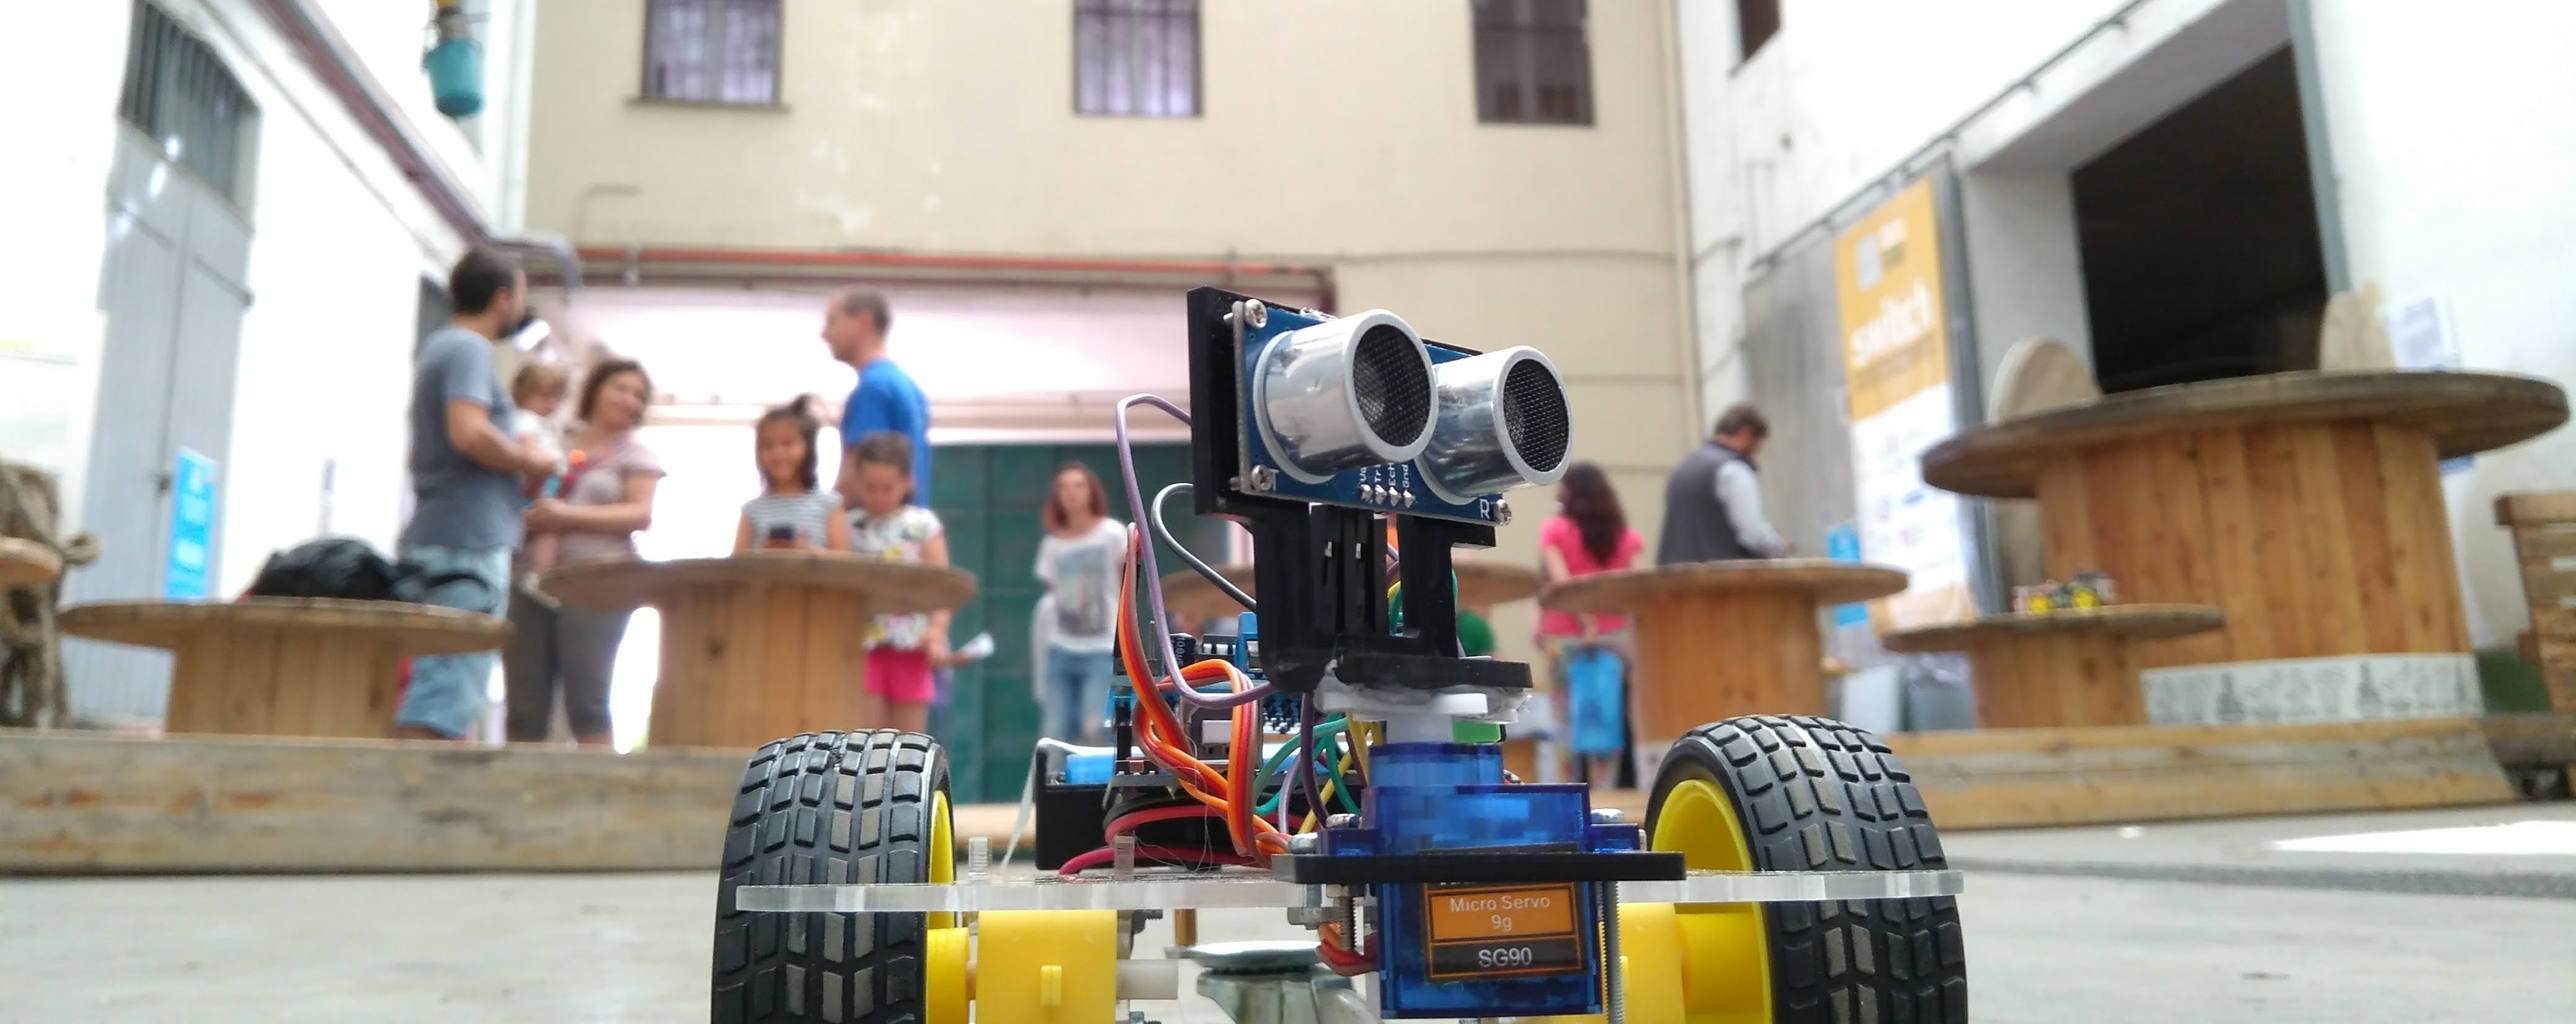
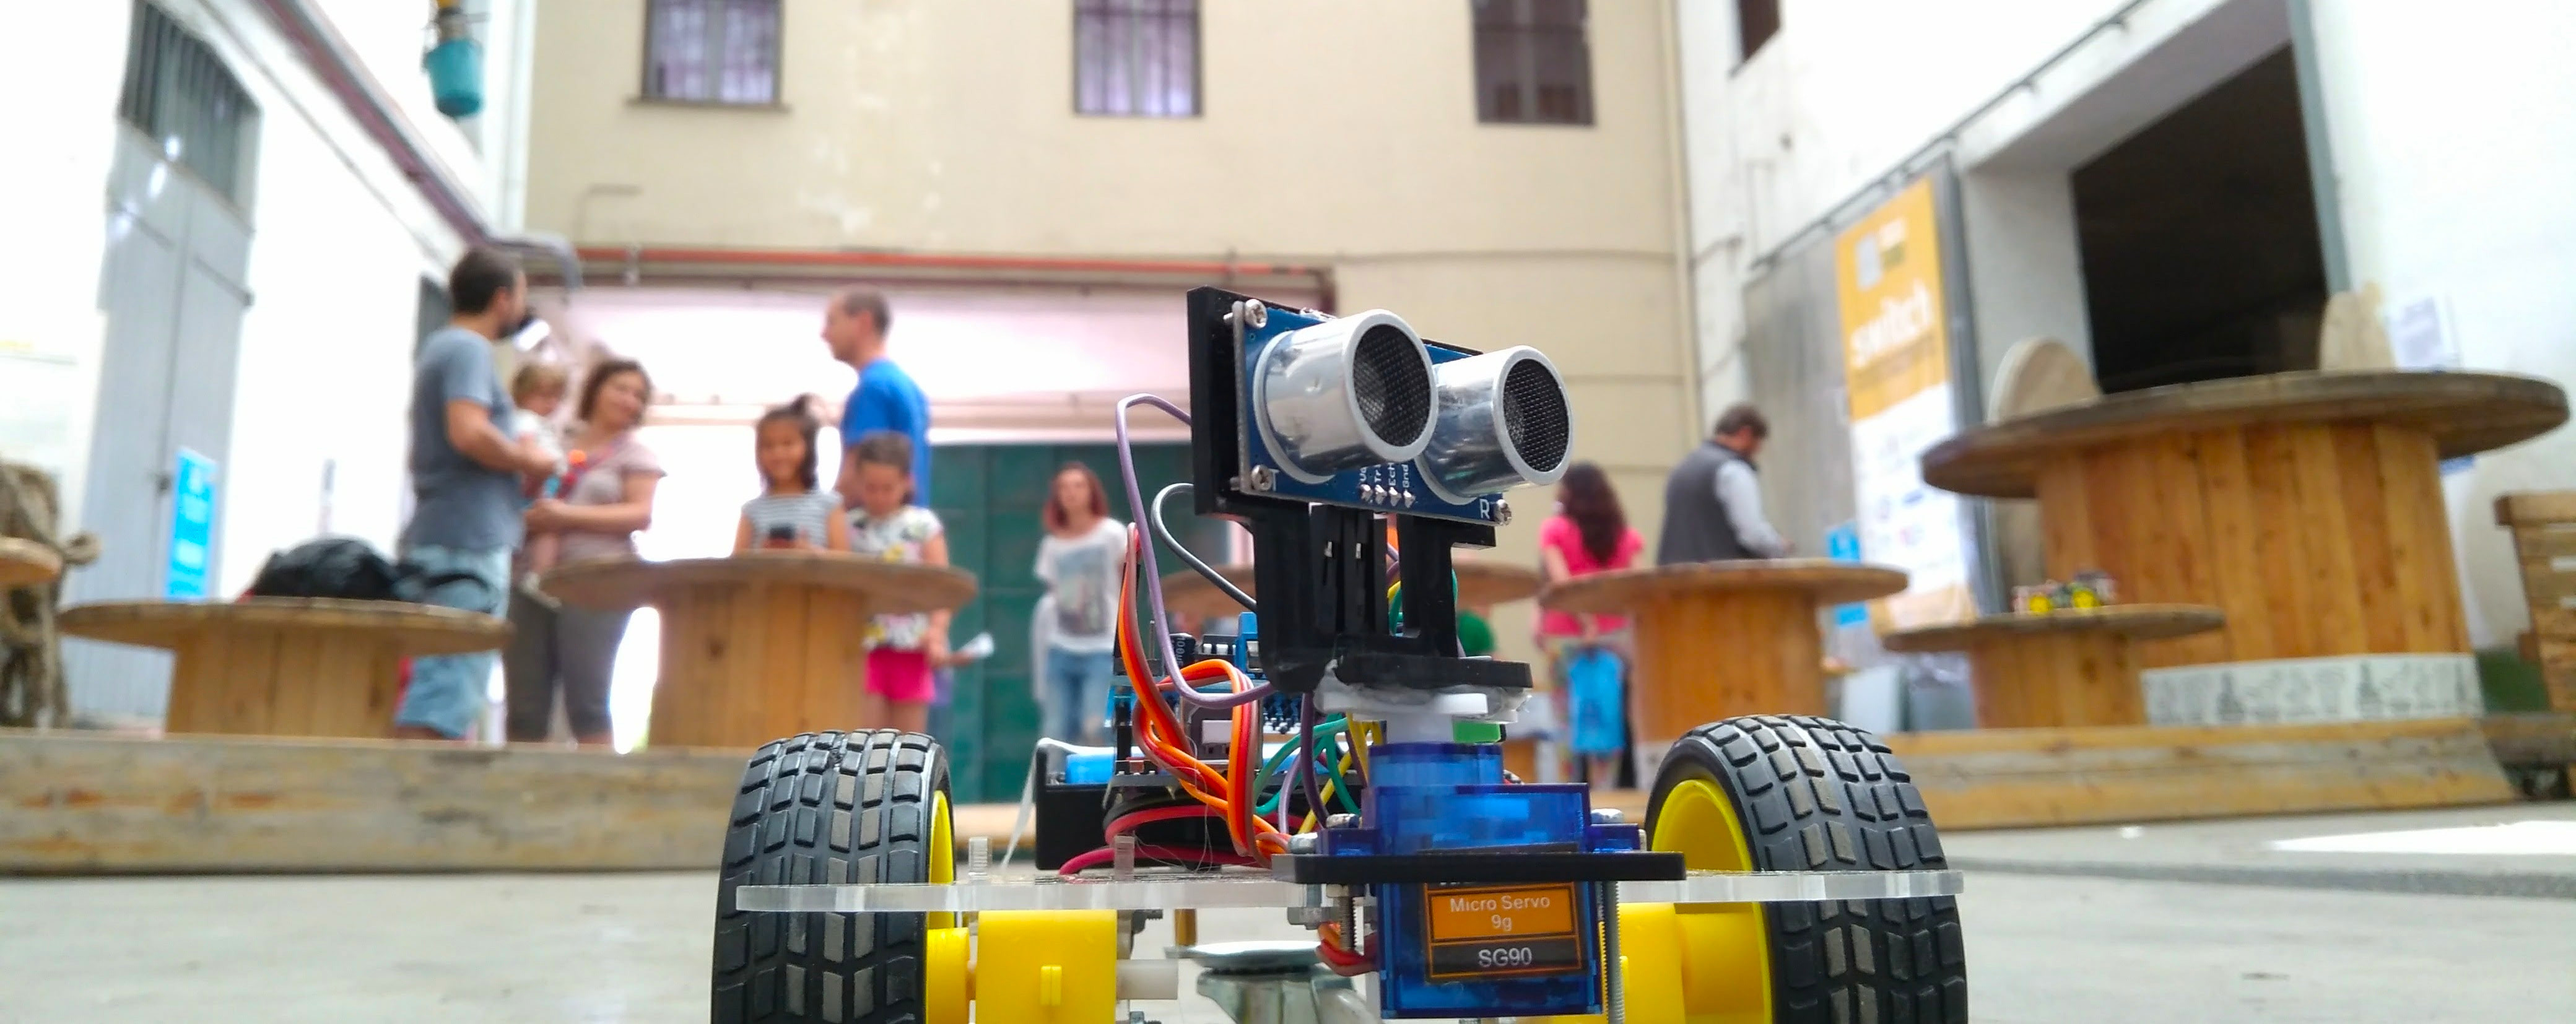
colors and imgs tuned

diff --git a/assets/style.css b/assets/style.css
@@ -28,14 +28,14 @@ global styles
     --clr-fgnavbar-500: hsl(0, 0%, 100%);
     --clr-first-500: hsl(209, 100%, 15%);
     --clr-first-500-bg: #E0EEFF;
-    --clr-second-500: hsl(88, 52%, 58%);
-    --clr-second-700: #56B071; /*  hsl(88, 52%, 40%); */
-    --clr-second-500-bg: rgba(152, 204, 92, 40%);
-    --clr-third-500: hsl(359, 47%, 59%);
+    --clr-second-500: hsl(88, 62%, 58%);
+    --clr-second-700: hsl(88, 92%, 38%); /*  hsl(88, 52%, 40%); */
+    --clr-second-500-bg: #c3f78980;
+    --clr-third-500: hsl(0, 76%, 52%);
     --clr-hero-grad: linear-gradient(90deg, #061D32 0.59%, rgba(3, 35, 64, 0.887142) 11.98%, rgba(0, 40, 77, 0.786929) 25%, rgba(49, 81, 111, 0.54) 55%, rgba(154, 170, 184, 0.311182) 82%, rgba(255, 255, 255, 0) 100%);
     --clr-hero-grad-brk: linear-gradient(90deg, #061D32 0.59%, rgba(3, 35, 64, 0.887142) 11.98%, rgba(0, 40, 77, 0.786929) 20.14%, rgba(49, 81, 111, 0.54) 38.9%, rgba(154, 170, 184, 0.311182) 56.2%, rgba(255, 255, 255, 0) 100%);
     --clr-partnersbg-500: #1f252b;
-    --clr-contacts-500: rgb(85, 179, 226);
+    --clr-contacts-500: rgb(94, 201, 255);
     --clr-footerbg-500: #032340;
 
     /* font families */
@@ -46,7 +46,7 @@ global styles
     --fs-h1: 2.375rem;
     --fs-h2: 2rem;
     --fs-h3: 1.75rem;
-    --fs-h4: 1.75rem;
+    --fs-h4: 1.52rem;
     --fs-top-title: 1.2rem;
     --fs-p: 1.0625rem;
     --fs-btn: 0.875rem;
@@ -167,7 +167,7 @@ h4 {
   font-weight: 700;
   color: var(--clr-second-700);
   margin-top: var(--spacer);
-  margin-bottom: var(--spacer);
+  
 }
 
 ul {
@@ -380,7 +380,7 @@ components
 .checked-list {
   position: relative;
   line-height: 1.4;
-  padding-left: 0.7rem; /* marker distancing */
+  padding-left: 1rem; /* marker distancing */
   padding-bottom: var(--spacer); /* marker distancing */
 }
 
@@ -493,7 +493,7 @@ components
 }
 
 .blob-container--alternate::before {
-  background: #5688CB;
+  background: #2865b4;
   top: -5px;
   left: -8px;
   width: 106%;
@@ -637,7 +637,7 @@ hero
 ============ */
 
 .hero {
-  background: var(--clr-hero-grad), url(/assets/imgs/IMG_20170604_155258\ crop2.jpg);
+  background: var(--clr-hero-grad), url(/assets/imgs/IMG_20170604_155258\ crop1-min-min.jpg);
   background-size: cover;
   background-position: top left 40%;
   background-repeat: no-repeat;
@@ -657,7 +657,7 @@ hero
 
 .hero__organization {
   position: relative;
-  background-image: linear-gradient(cyan, grey),url(/assets/imgs/IMG_2880cropped.jpg);
+  background-image: linear-gradient(cyan, grey),url(/assets/imgs/IMG_2880cropped-min.jpg);
   background-size: cover;
   background-blend-mode: multiply;
   background-position: bottom 50% right;

diff --git a/fablab.html b/fablab.html
@@ -176,7 +176,7 @@
                     <img src="assets/imgs/FabLab-300x300.png" alt="Fablab International logo">
                 </div>
                 <div class="f-col">
-                    <h4>L'ANIMA DI TUTTI I FABLAB</h4>
+                    <h4>L'ANIMA DEI FABLAB</h4>
                     <h1>Il "Fab Charter"</h1>
                     <p>è il manifesto stabilito dalla FabFoundation che tutti i Fablab del mondo devono rispettare. Lo riportiamo qui in versione italiana</p>
                 </div>
